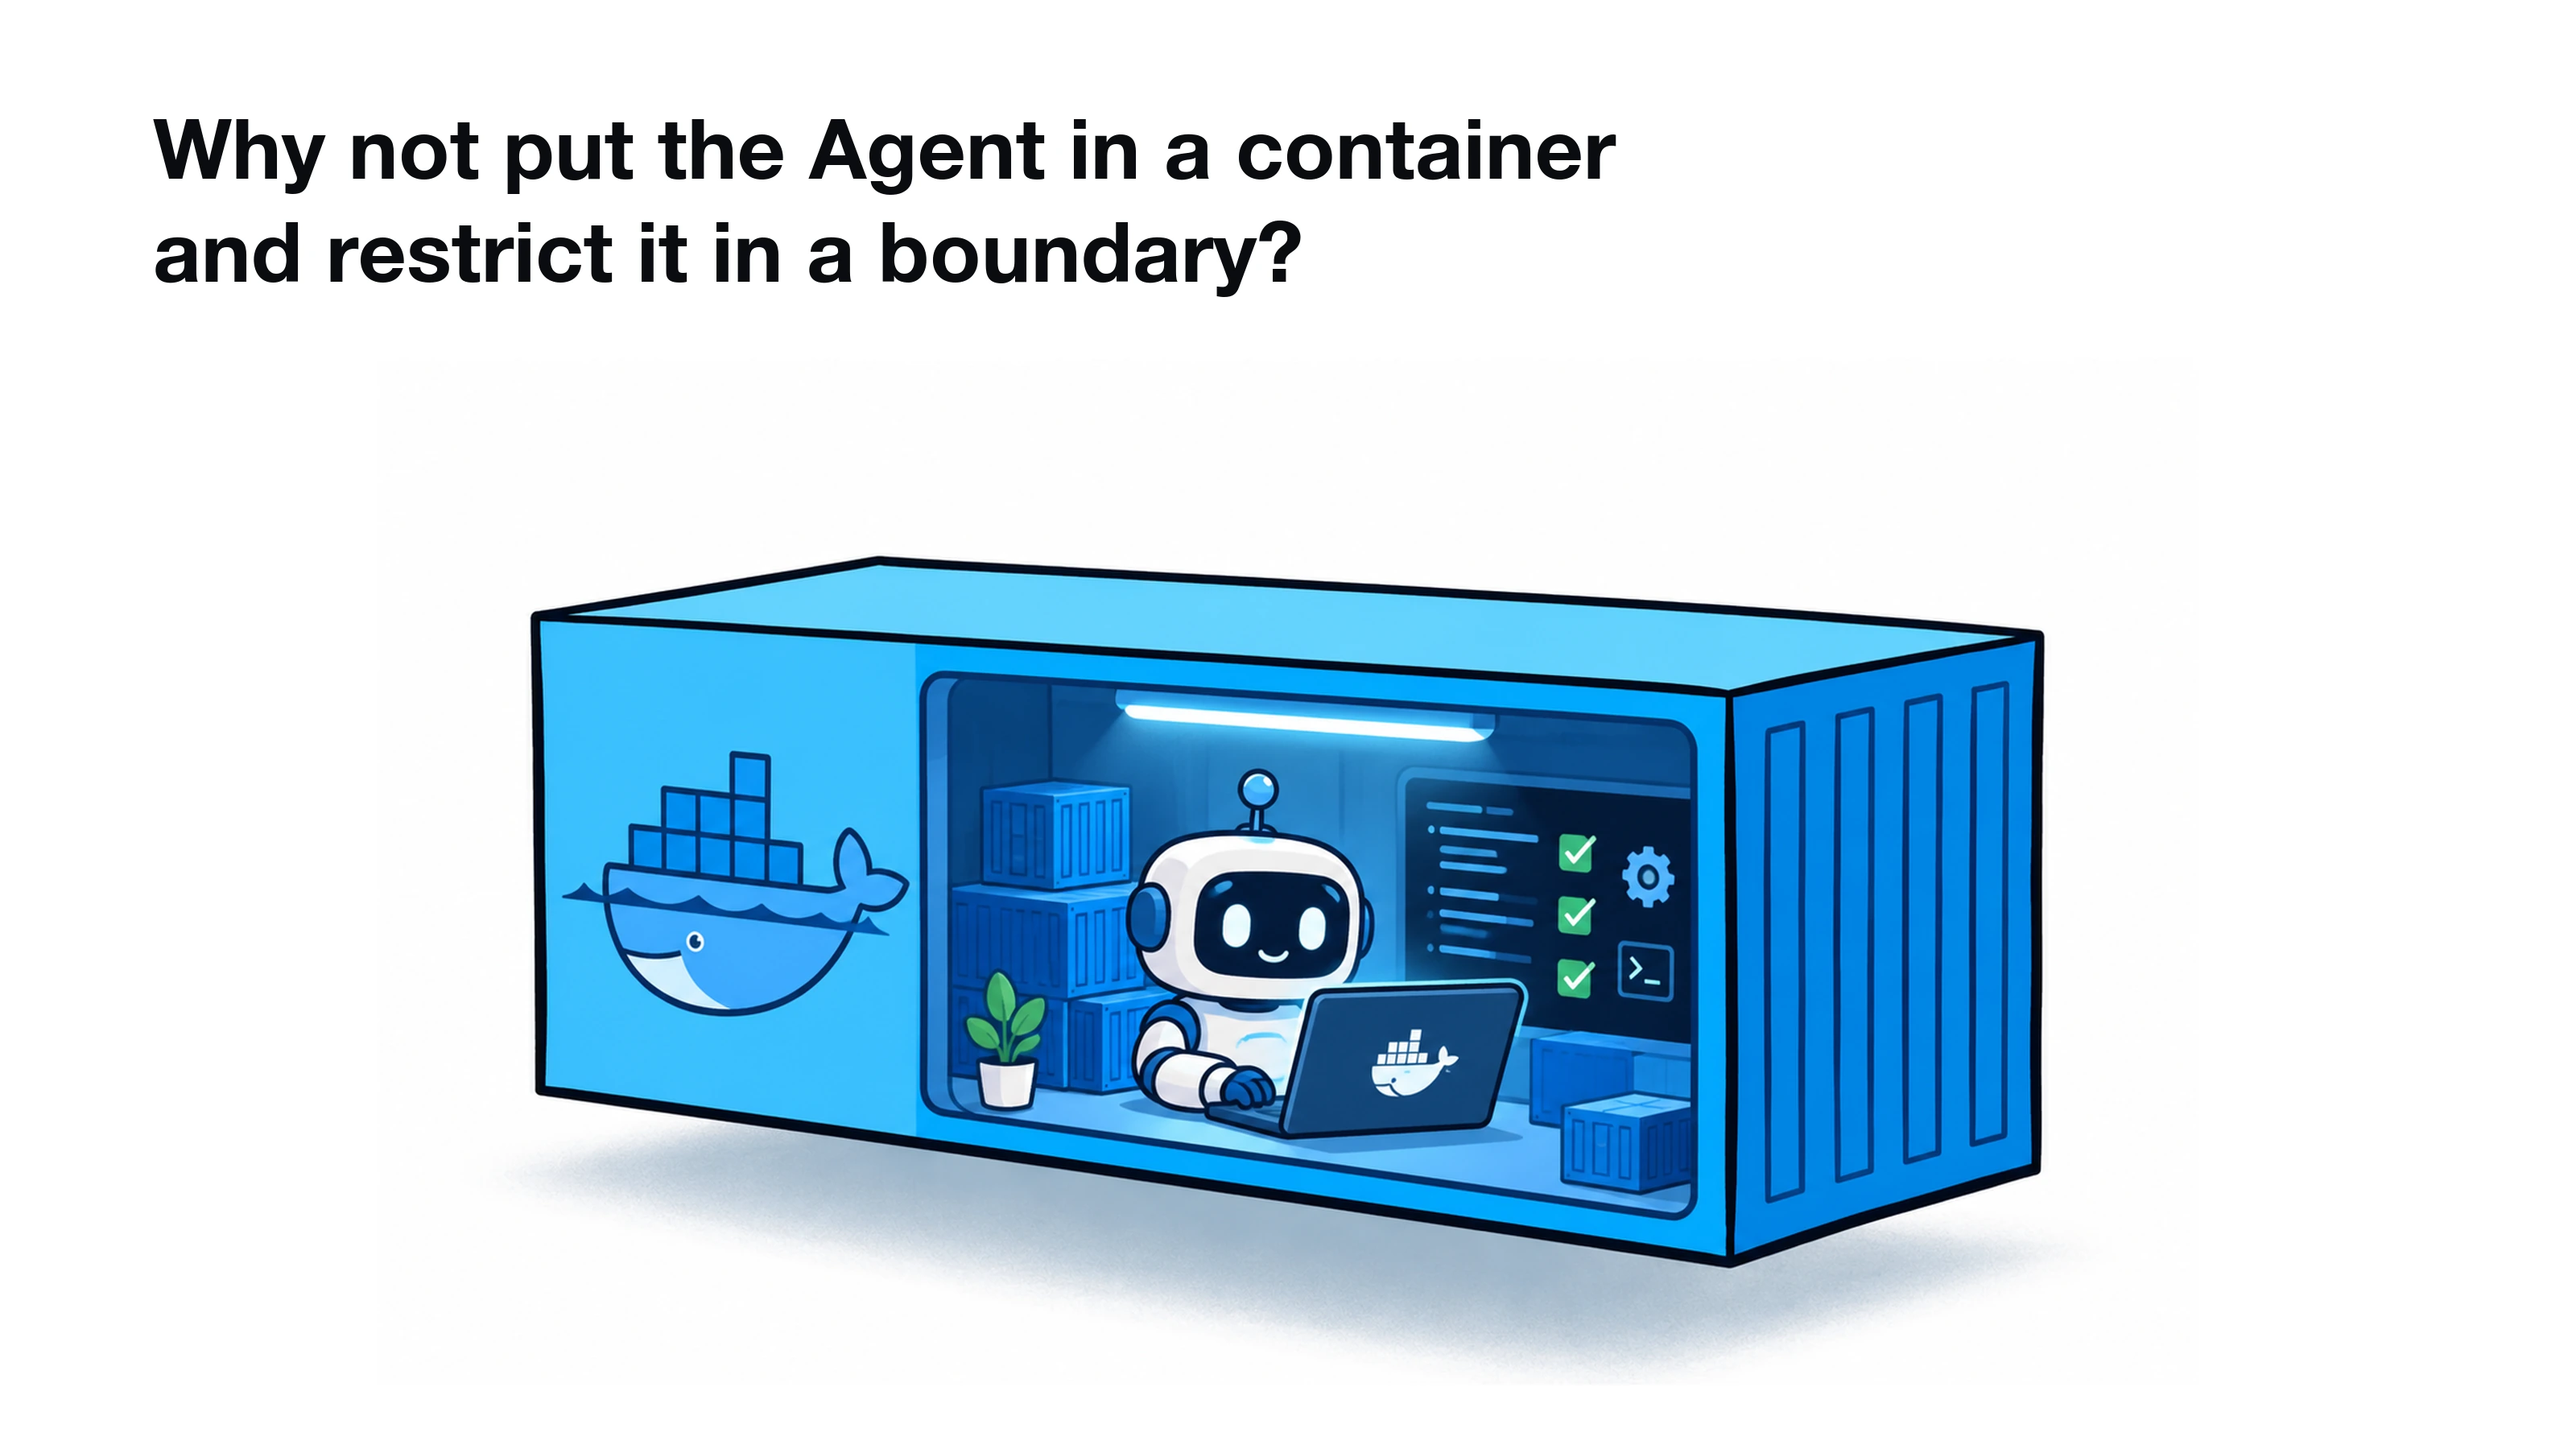
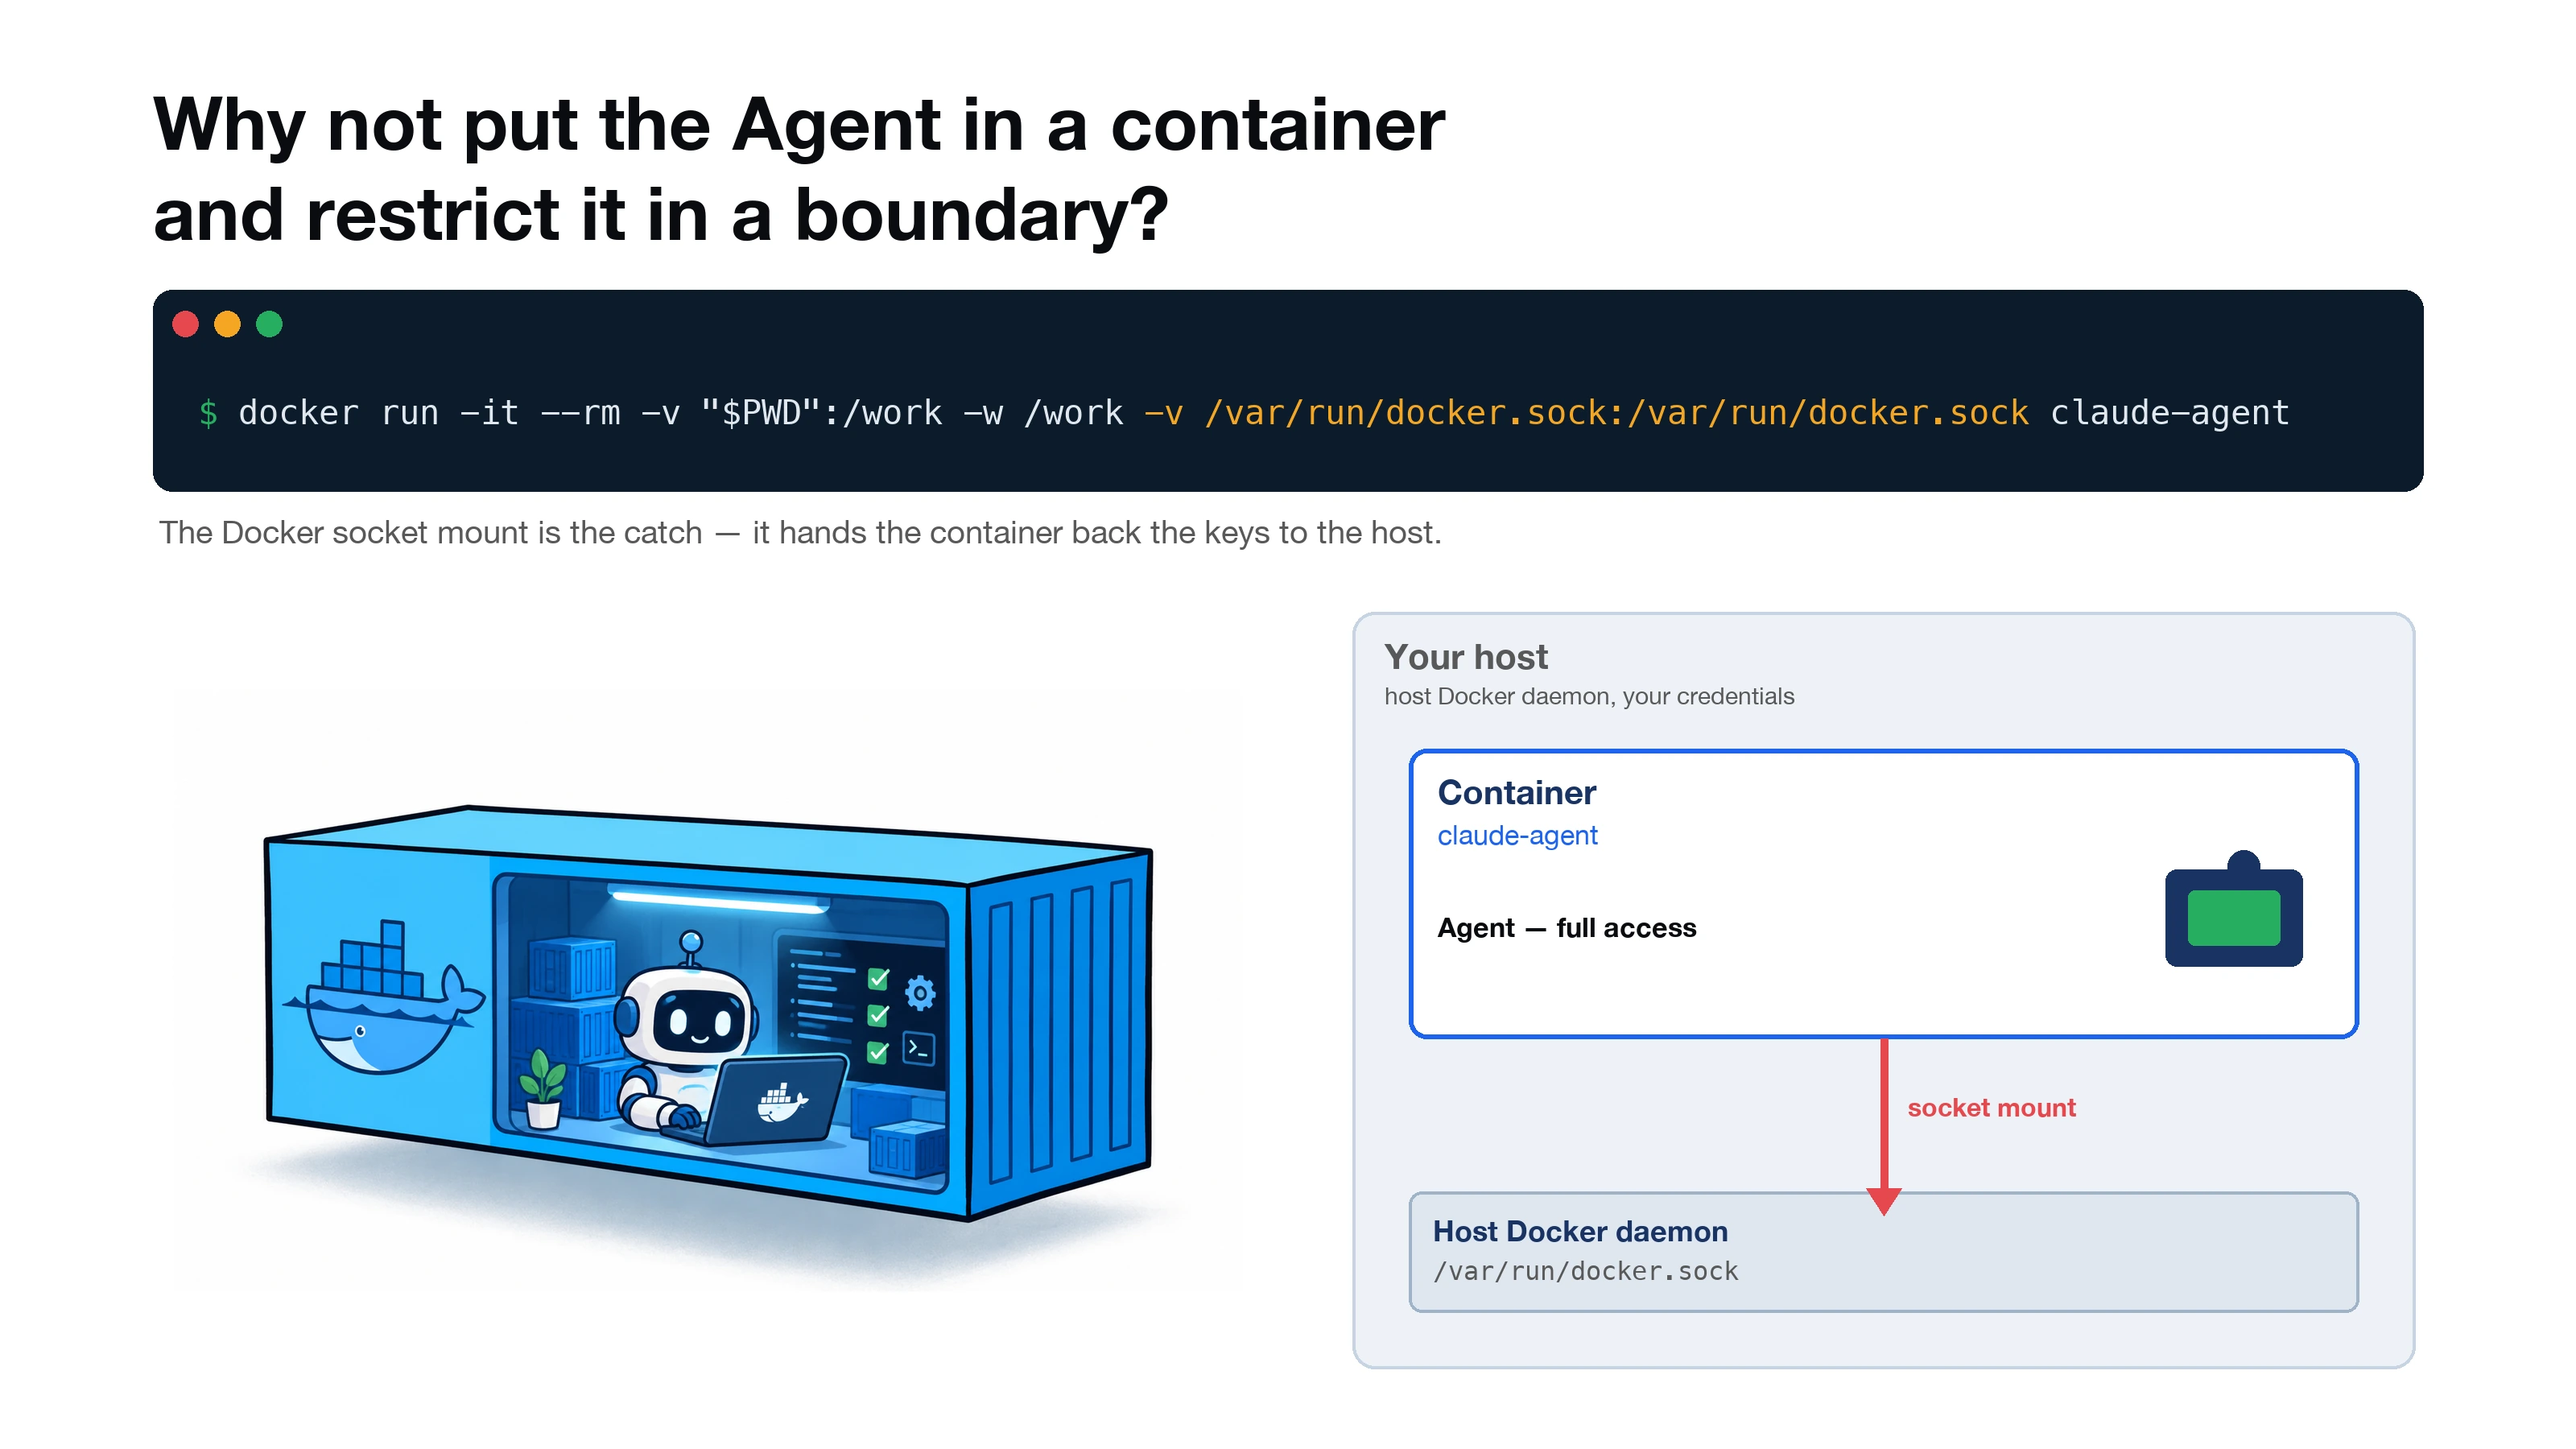
Slide 25: add docker run command + host/socket schematic
Recompose the "agent in a container?" slide: a terminal card with the
docker run command (mounting the project and the Docker socket, with the
-v /var/run/docker.sock flag highlighted), the container illustration, and
a schematic showing the socket mount reaching from the container back to
the host Docker daemon. Update the slide 25 note to walk the command and
call out the socket as the catch that sets up the escape.

diff --git a/labs/securing-the-agentic-stack-slides/SPEAKER-NOTES.md b/labs/securing-the-agentic-stack-slides/SPEAKER-NOTES.md
@@ -399,12 +399,17 @@ change absolutely everything.
 
 ## Slide 25 — Why not put the Agent in a container?
 
-So let's picture that instinct literally. Here's the agent, tucked inside a nice
-blue Docker container, working away behind four walls. It looks safe. It looks
-contained — give it its own box, draw a boundary, and let it do its thing. And if
-the agent were an application, that picture would be the end of the story. But our
-agent isn't an application. So let's open this container up and watch what actually
-happens the moment it needs to do real work.
+So let's make the instinct concrete. Here's exactly how you'd do it — one
+`docker run`: mount the project in, and because you want the agent to actually
+build and test images, you mount the Docker socket in too. That's the last flag on
+the line: dash-v, var-run-docker-dot-sock. Now the agent is sitting in a nice blue
+box, working away behind four walls. It looks safe. It looks contained.
+
+But look at that last mount, because it's the whole catch. For an application, this
+picture would be the end of the story — a container is a perfect box around an app.
+For an agent, that one socket flag quietly hands the container back the keys to the
+host: anything the agent can do with Docker inside the box, it can now do to your
+actual machine. So let's open this container up and watch exactly what happens.
 
 ## Slide 26 — Escaping a container
 
